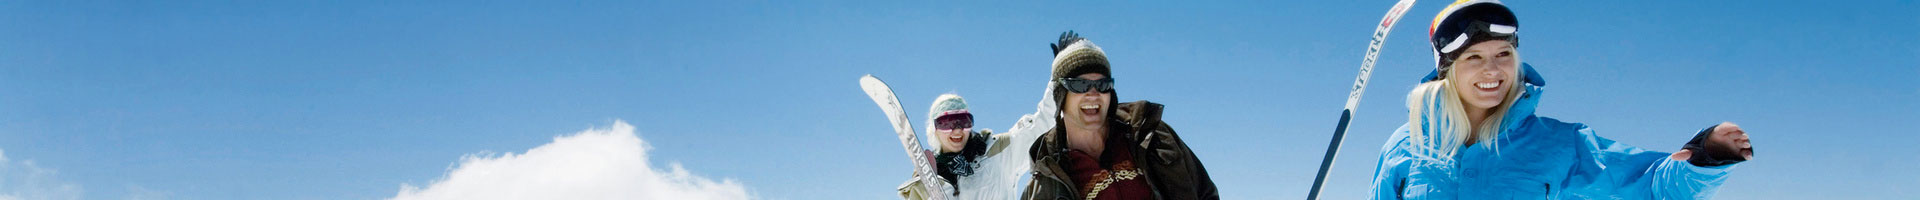
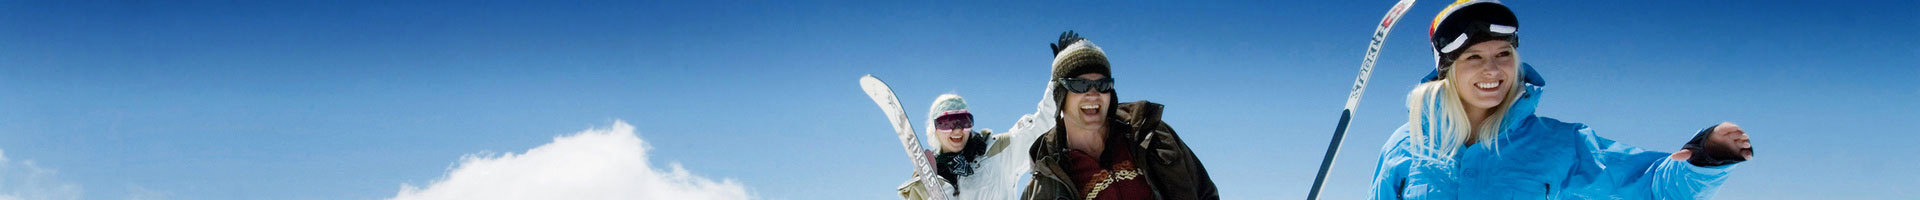
Agency instagram getting

Changed region(s): [[0.0, 0.0, 1.0, 0.33]]

diff --git a/public/js/custom.js b/public/js/custom.js
@@ -75,11 +75,8 @@ $(document).ready(function () {
 
     //----------------------MAP-----------------------------
 
-    // create the markers
     if (window.location.pathname === '/guia/decarro'){
-
         var geoJson;
-
         $.ajax({
            url: "../js/features.json",
             dataType: "json",
@@ -89,37 +86,28 @@ $(document).ready(function () {
             }
         });
 
-        // create the map
         var map = L.mapbox.map('map', 'rafaelzarro.1c6j5igk').setView([-39.266018, -71.71772], 10);
 
         map.scrollWheelZoom.disable();
         map.featureLayer.on('layeradd', function(e) {
             var marker = e.layer;
-            // custom popup content
             var popupContent =  getTitle(marker);
             marker.bindPopup(popupContent,{
                 closeButton: false
             });
-            // customize click event
             marker.on('click', function(e) {
-                // zoom on the marker
-                if(map.getZoom() > marker.feature.properties.zoom) {
-                    map.setView(e.latlng, map.getZoom());
-                } else {
-                    map.setView(e.latlng, marker.feature.properties.zoom);
-                }
                 var thisId = this.feature.id;
-                if($("#map-tab-"+thisId).length === 1){
+                var pickedPlace = $("#map-tab-"+thisId);
+                if(pickedPlace.length === 1){
                     $(".map-tab").each(function(){
                        $(this).removeClass("active");
                     });
-                    $("#map-tab-"+thisId).addClass("active");
+                    pickedPlace.addClass("active");
+                    $('body, html').animate({ scrollTop: pickedPlace.offset().top }, 300);
                 }
             });
         });
-        // load the markers in the map
         map.featureLayer.setGeoJSON(geoJson);
-        // popup behaviour on marker mouseover event
         map.featureLayer.on('mouseover', function(e) {
             e.layer.openPopup();
         });
@@ -138,6 +126,7 @@ $(document).ready(function () {
             }
         }
     }
+
     //----------------------END MAP-----------------------------
 
 

diff --git a/public/js/instafeed/instafeed-settings.js b/public/js/instafeed/instafeed-settings.js
@@ -161,10 +161,10 @@ $(document).ready(function(){
 	}
 
 	if($("#instafeed4").length){
-		var agencyTag ;
+		var agencyId  = $("#instafeed4").attr("data-instagram-id");
 		var feed4 = new Instafeed({
 			get: 'user',
-            userId: '1476086823',
+            userId: agencyId,
 			target: 'instafeed4',
 			accessToken : '3468302324.ba4c844.647742b3c9b64b0db48e48e50e9e0c68',
 			template: '<div class="col-sm-2 col-xs-3 in-image-agency"><a href="{{link}}"><img style="width: 86px !important; height: 86px !important;" src="{{image}}"/></a></div>',

diff --git a/public/css/custom.css b/public/css/custom.css
@@ -1,6 +1,6 @@
 .visual {
   background-size: cover;
-  background-position: center center;
+  background-position: center top;
   background-repeat: no-repeat;
 }
 .visual.home {

diff --git a/resources/views/site/agencies/agency-single.blade.php b/resources/views/site/agencies/agency-single.blade.php
@@ -33,7 +33,7 @@
                                         <div class="agency-gallery">
                                             <div class="row">
                                                 <div class="col-xs-9">
-                                                    <div id="instafeed4" class="instafeed"></div>
+                                                    <div id="instafeed4" class="instafeed" data-instagram-id="{{ $agency['instagram_id'] }}"></div>
                                                 </div>
                                                 <span class="agency-tag">aguaventura</span>
                                             </div>
